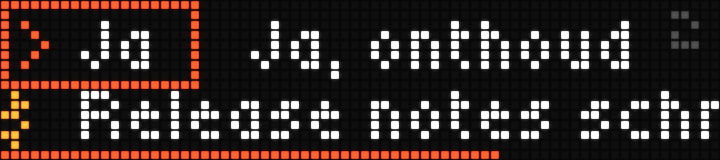
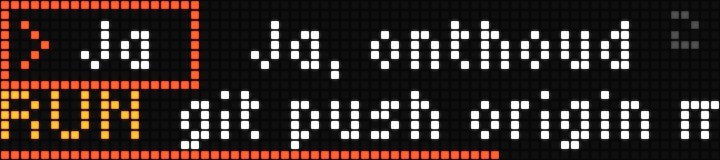
Show the action word and command on the front row, after the Flipper demo

Changed region(s): [[0.0, 0.5625, 0.6111, 0.9375], [0.6111, 0.5625, 0.9778, 0.9375], [0.3056, 0.5625, 0.3667, 0.625]]

diff --git a/apps/claude-approve/app.py b/apps/claude-approve/app.py
@@ -70,6 +70,9 @@ PURPLE = "#B06CFFFF"
 KIND_COLOR = {"permission": ORANGE, "plan": BLUE, "question": PURPLE, "notice": GRAY, "flash": GREEN}
 TOOL_GLYPH = {"Bash": "$", "Edit": "E", "Write": "W", "MultiEdit": "E", "NotebookEdit": "E", "Read": "R",
               "WebFetch": "@", "WebSearch": "@", "ExitPlanMode": "P", "AskUserQuestion": "?"}
+TOOL_WORD = {"Bash": "RUN", "Edit": "EDIT", "Write": "WRITE", "MultiEdit": "EDIT", "NotebookEdit": "EDIT",
+             "Read": "READ", "WebFetch": "FETCH", "WebSearch": "SEARCH", "ExitPlanMode": "PLAN",
+             "AskUserQuestion": "ASK"}
 
 SCROLL_RATE = 1500          # pixel columns per minute
 SCROLL_START_DELAY = 800    # ms
@@ -456,8 +459,9 @@ class Card:
     detail: str
     project: str
     surface: str                # iterm | tmux | hold | none
-    label: str = ""             # row 1: task title from the terminal, else Claude's own description
+    label: str = ""             # task title from the terminal, else Claude's own description
     glyph: str = "?"
+    word: str = "RUN"           # action word on the front: RUN, EDIT, PLAN, ASK, MCP
     iterm: str = ""
     tmux: str = ""
     options: list = field(default_factory=list)
@@ -530,7 +534,8 @@ class Store:
 
     def show_flash(self, card, label):
         done = Card(session_id=card.session_id, tool_use_id="", kind="flash", title=card.title,
-                    detail=label, label=card.label, glyph=card.glyph, project=card.project, surface="none")
+                    detail=label, label=card.label, glyph=card.glyph, word=card.word, project=card.project,
+                    surface="none")
         self.flash = (done, time.monotonic() + 1.5)
         self.dirty.set()
 
@@ -664,6 +669,7 @@ def card_from_permission(payload, headers):
                 kind="permission", title=short_tool(tool), detail=describe_input(tool, inp),
                 project=project, surface=surface, iterm=iterm, tmux=tmux, tool_input=inp)
     card.glyph = TOOL_GLYPH.get(tool, "M" if tool.startswith("mcp__") else tool[:1].upper() or "?")
+    card.word = TOOL_WORD.get(tool, "MCP" if tool.startswith("mcp__") else tool[:6].upper())
     card.label = own_label(tool, inp)
     if tool == "ExitPlanMode":
         card.kind = "plan"
@@ -936,7 +942,10 @@ def _small_width(txt):
 
 def front_elements(card, status, choosing, on_screen, accent, remaining, label, badge):
     """Front 72x16, after the Flipper demo: options side by side with the chosen one boxed
-    and an arrow, below it the tool glyph and the task title, a countdown line at the bottom."""
+    and an arrow, below it the action word and the command, a countdown line at the bottom."""
+    word = "DONE" if card.kind == "flash" else card.word
+    word_w = _small_width(word) + 6
+    detail = label if card.kind == "flash" else (card.detail or label)
     options = card.options if choosing else []
     nxt = options[(card.selected + 1) % len(options)].label if len(options) > 1 else ""
     if card.kind == "question" and nxt and options[(card.selected + 1) % len(options)].value in card.chosen:
@@ -956,8 +965,8 @@ def front_elements(card, status, choosing, on_screen, accent, remaining, label, 
         _scrolling("f_opt0", status, 8 if arrow else 0, 0, "small", text_color, max(4, box_w - 10) if arrow else right_edge),
         _scrolling("f_opt1", nxt, box_w + 5, 0, "small", WHITE, max(4, right_edge - box_w - 5)),
         _text("f_badge", badge, 71, 0, "tiny", GRAY, align="top_right"),
-        _text("f_glyph", card.glyph, 0, 7, "small", Y_GLYPH),
-        _scrolling("f_title", label, 8, 7, "small", WHITE, 64),
+        _text("f_word", word, 0, 7, "small", Y_GLYPH),
+        _scrolling("f_detail", detail, word_w, 7, "small", WHITE, 72 - word_w),
         _rect("f_timer", 0, 15, int(72 * remaining) if remaining is not None else 1, 1,
               accent if remaining is not None else CLEAR),
     ]
@@ -966,8 +975,8 @@ def front_elements(card, status, choosing, on_screen, accent, remaining, label, 
 def build_frame(card, count, now):
     """Every element id is sent every frame (hidden ones transparent): the firmware never auto-releases ids.
 
-    Front 72x16: the options side by side with the chosen one boxed, the tool glyph and
-    task title below, a thin countdown line along the bottom edge.
+    Front 72x16: the options side by side with the chosen one boxed, the action word and
+    the command below, a thin countdown line along the bottom edge.
     Back 160x80: accent header, title, the actual command, the option list."""
     accent = KIND_COLOR.get(card.kind, ORANGE)
     on_screen = card.state == "on_screen" or (not card.options and card.kind != "flash")
